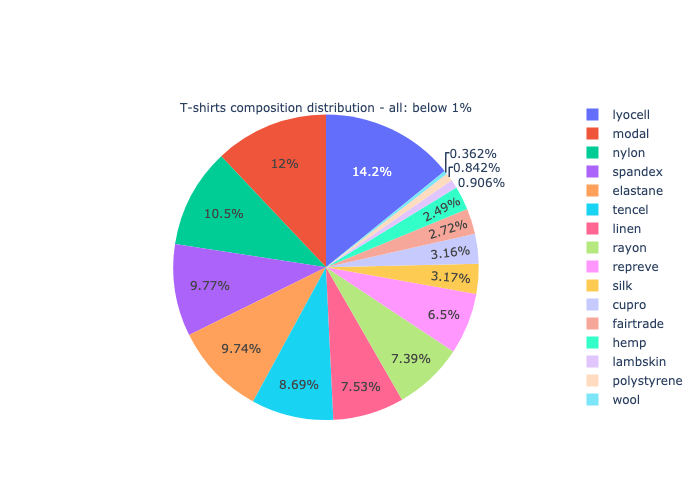
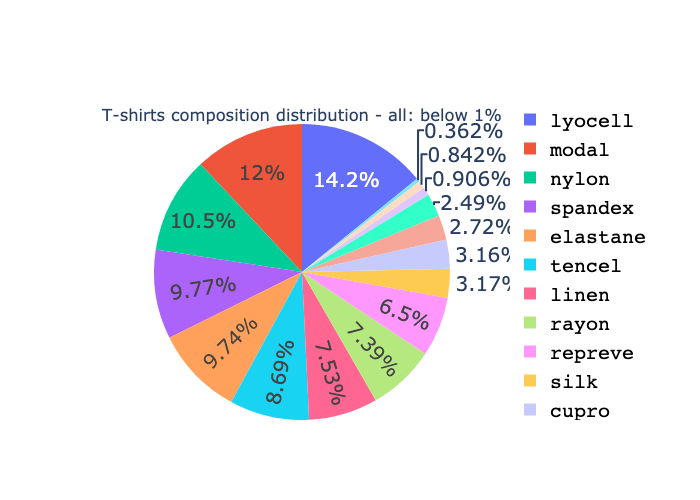
2nd update on composition distribution plots

Changed region(s): [[0.15, 0.21, 0.99, 0.84]]

diff --git a/EDA/EDA.py b/EDA/EDA.py
@@ -107,11 +107,17 @@ def plot_material_distribution(df, materials_columns, type):
 
     fig = go.Figure(data=[go.Pie(labels=majority_columns, values = list(material_majority_df.iloc[0]),
                                         title = f"T-shirts composition distribution - {type}: majority")])
+    fig.update_layout(legend = dict(font = dict(family = "Courier", size = 20, color = "black")),
+                    legend_title = dict(font = dict(family = "Courier", size = 20, color = "blue")),
+                    font=dict(size=20))
     fig.write_image(f"./EDA/composition_distribution_{type}_majority.png")
     fig.show()
 
     fig = go.Figure(data=[go.Pie(labels=minority_columns, values = list(material_minority_df.iloc[0]),
                                         title = f"T-shirts composition distribution - {type}: below 1%")])
+    fig.update_layout(legend = dict(font = dict(family = "Courier", size = 20, color = "black")),
+                    legend_title = dict(font = dict(family = "Courier", size = 20, color = "blue")),
+                    font=dict(size=20))
     fig.write_image(f"./EDA/composition_distribution_{type}_minority.png")
     fig.show()
 
@@ -120,84 +126,84 @@ if __name__ == "__main__":
 
     df = pd.read_csv("./data/E-Weaver_data.csv", index_col = [0])
 
-    # Statistical description for datatypes 
-    print(df.info())
-    print("-"*50)
-    print(df.dtypes)
-    print("-"*50)
-    print(df.describe().T)
-    print("-"*50)
+    # # Statistical description for datatypes 
+    # print(df.info())
+    # print("-"*50)
+    # print(df.dtypes)
+    # print("-"*50)
+    # print(df.describe().T)
+    # print("-"*50)
 
-    # Checking the number of rows having null values
-    print(df[df.columns[df.isnull().any()]].isnull().sum())
-    print("-"*50)
+    # # Checking the number of rows having null values
+    # print(df[df.columns[df.isnull().any()]].isnull().sum())
+    # print("-"*50)
 
-    # How many unique colors in dataset
-    print(len(df["color"].unique()))
+    # # How many unique colors in dataset
+    # print(len(df["color"].unique()))
 
-    # Price columns' distribution in bar plot
-    df['price'].value_counts().head(10).plot.bar()
-    plt.title("Price counts in descending order")
-    plt.xlabel("price($)")
-    plt.ylabel("counts")
-    plt.savefig(f"./EDA/price_histogram.png")
-    plt.show()
+    # # Price columns' distribution in bar plot
+    # df['price'].value_counts().head(10).plot.bar()
+    # plt.title("Price counts in descending order")
+    # plt.xlabel("price($)")
+    # plt.ylabel("counts")
+    # plt.savefig(f"./EDA/price_histogram.png")
+    # plt.show()
 
-    # Outlier analysis of price column
-    price_df = df["price"]
-    ax = sns.boxplot(data = price_df, palette = "Set2")
-    plt.title("Outlier analysis of price attribute")
-    plt.savefig(f"./EDA/price_outlier.png")
-    plt.show()
+    # # Outlier analysis of price column
+    # price_df = df["price"]
+    # ax = sns.boxplot(data = price_df, palette = "Set2")
+    # plt.title("Outlier analysis of price attribute")
+    # plt.savefig(f"./EDA/price_outlier.png")
+    # plt.show()
 
     # Correlation analysis between numerical value attributes
     columns = df.columns.tolist()
     composition_index = columns.index("composition")
     materials_columns = columns[composition_index+1:-1]
 
-    numerical_columns = materials_columns+["price"]
-    numerical_df = df[numerical_columns]
+    # numerical_columns = materials_columns+["price"]
+    # numerical_df = df[numerical_columns]
     
-    colormap = plt.cm.RdBu
-    plt.figure(figsize=(15,15))
-    plt.title("Pearson correlation of numerical features", y = 1.05, size = 15)
-    sns.heatmap(numerical_df.astype(float).corr(), annot = True)
-    plt.savefig(f"./EDA/numerical_feature_heatmap.png")
-    plt.show()
+    # colormap = plt.cm.RdBu
+    # plt.figure(figsize=(15,15))
+    # plt.title("Pearson correlation of numerical features", y = 1.05, size = 15)
+    # sns.heatmap(numerical_df.astype(float).corr(), annot = True)
+    # plt.savefig(f"./EDA/numerical_feature_heatmap.png")
+    # plt.show()
 
-    brand_lst = list(df.brand.unique())
-    # for brand in brand_lst:
-    #     # Create wordcloud for each indivicual brand
-    #     tmp_df = df[df["brand"]==brand]
-    #     make_wordcloud(tmp_df, brand)
+    # brand_lst = list(df.brand.unique())
+    # # for brand in brand_lst:
+    # #     # Create wordcloud for each indivicual brand
+    # #     tmp_df = df[df["brand"]==brand]
+    # #     make_wordcloud(tmp_df, brand)
 
-    #     # Create visualization for images'size distribution
-    #     if brand == "tentree":
-    #         continue
-    #     imagePath_lst = [os.path.join("data/image_data", f) for f in os.listdir("data/image_data/") if brand in f]
-    #     dim_df = pd.DataFrame([get_dims(imagePath) for imagePath in imagePath_lst], columns = ["height", "width"])
-    #     dim_df = dim_df[dim_df.height != 0]
-    #     plot_image_distribution(dim_df, brand)
+    # #     # Create visualization for images'size distribution
+    # #     if brand == "tentree":
+    # #         continue
+    # #     imagePath_lst = [os.path.join("data/image_data", f) for f in os.listdir("data/image_data/") if brand in f]
+    # #     dim_df = pd.DataFrame([get_dims(imagePath) for imagePath in imagePath_lst], columns = ["height", "width"])
+    # #     dim_df = dim_df[dim_df.height != 0]
+    # #     plot_image_distribution(dim_df, brand)
 
-    # Create wordcloud for all data
-    make_wordcloud(df, "all")
+    # # Create wordcloud for all data
+    # make_wordcloud(df, "all")
 
-    # Create visualization for all images's size
-    imagePath_lst = [os.path.join("data/image_data", f) for f in os.listdir("data/image_data/")]
-    dim_df = pd.DataFrame([get_dims(imagePath) for imagePath in imagePath_lst], columns = ["height", "width"])
+    # # Create visualization for all images's size
+    # imagePath_lst = [os.path.join("data/image_data", f) for f in os.listdir("data/image_data/")]
+    # dim_df = pd.DataFrame([get_dims(imagePath) for imagePath in imagePath_lst], columns = ["height", "width"])
     
-    # Get rid of image failed to download which only has 1 channel only
-    dim_df = dim_df[dim_df.height != 0]
-    plot_image_distribution(dim_df, "all")
+    # # Get rid of image failed to download which only has 1 channel only
+    # dim_df = dim_df[dim_df.height != 0]
+    # plot_image_distribution(dim_df, "all")
 
-    # Create visualization for price column
-    # plot_order1 = df["price"].groupby('price')['price'].sum().sort_values(ascending=True).index.values
-    g = sns.catplot("price", data=df, kind='count', height=10, aspect=1.5)
-    (g.set_axis_labels("Price", "Count").set_titles("All data price distribution").despine(left=True))  
+    # # Create visualization for price column
+    # # plot_order1 = df["price"].groupby('price')['price'].sum().sort_values(ascending=True).index.values
+    # g = sns.catplot("price", data=df, kind='count', height=10, aspect=1.5)
+    # (g.set_axis_labels("Price", "Count").set_titles("All data price distribution").despine(left=True))  
 
-    # Create visualization for all the composition materials
-    df_men = df[df["gender"]=="men"]
-    df_women = df[df["gender"]=="women"]
+    # # Create visualization for all the composition materials
+    # df_men = df[df["gender"]=="men"]
+    # df_women = df[df["gender"]=="women"]
 
     plot_material_distribution(df, materials_columns, "all")
     # Create visualization for each gender's composition materials
